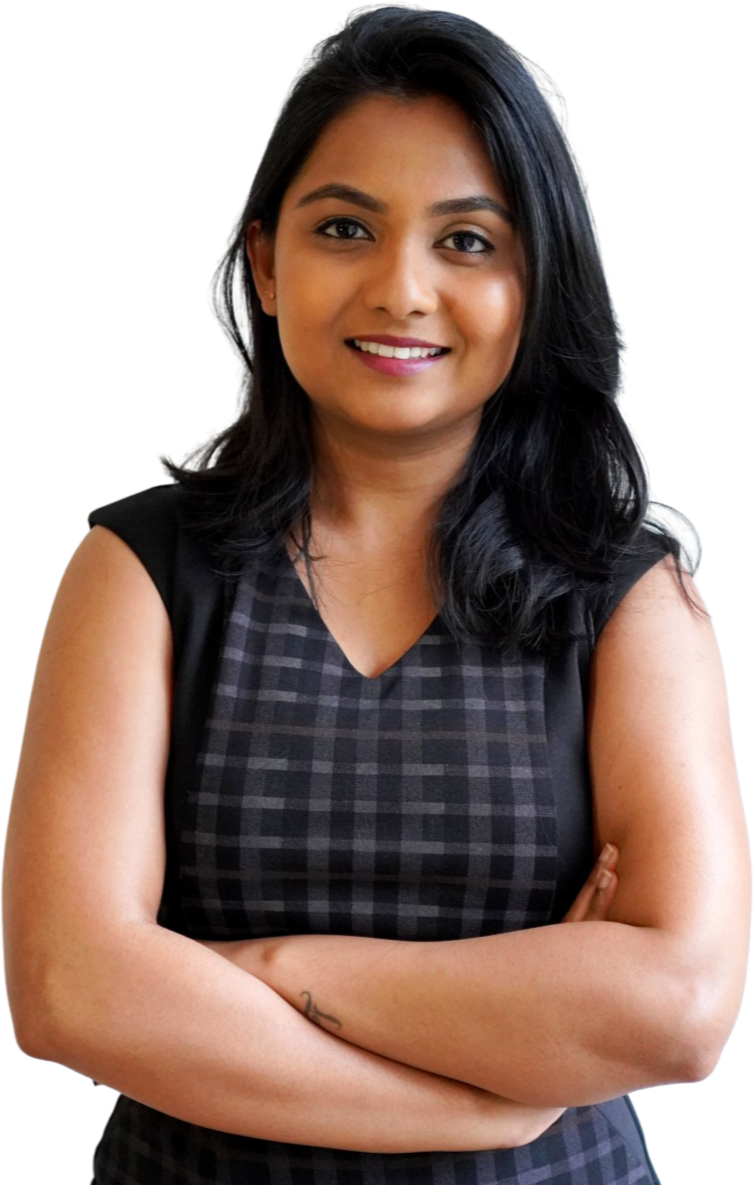
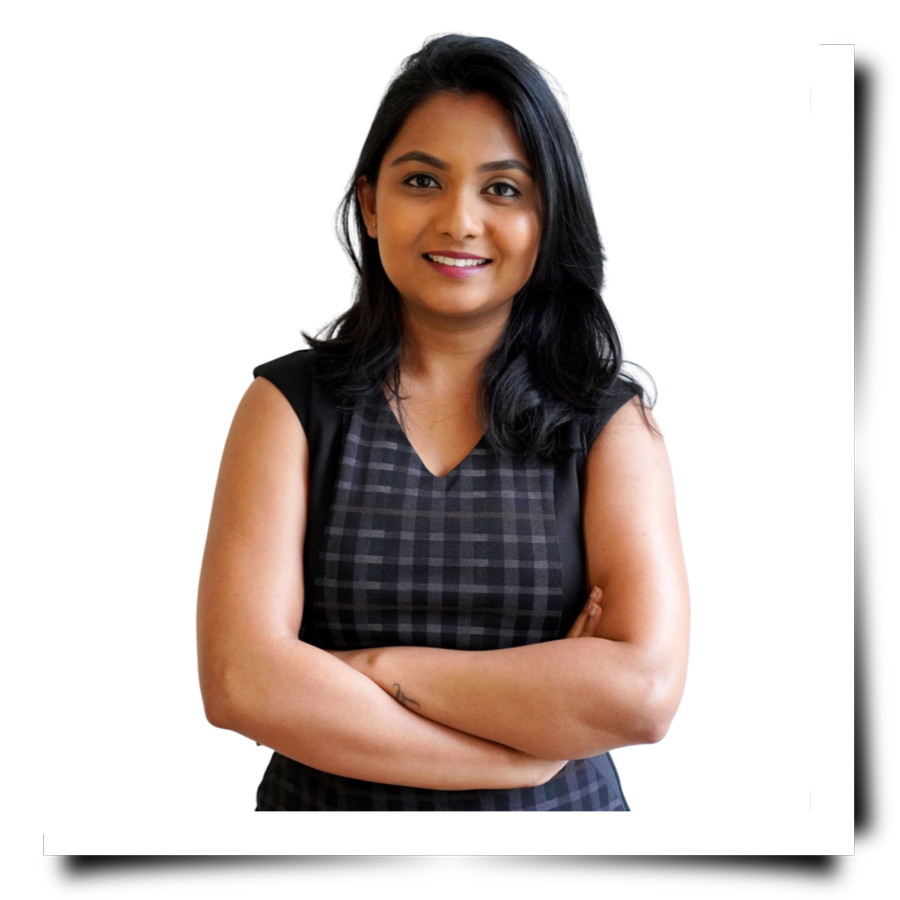
added mouse move parallax effect

diff --git a/js/main.js b/js/main.js
@@ -104,6 +104,35 @@
         $(this).addClass('filter-active');
         portfolioIsotope.isotope({filter: $(this).data('filter')});
     });
+
+    // Parallax Mouse Move    
+    var rect = $('#parallax_mouse_move')[0].getBoundingClientRect();
+    var mouse = {x: 0, y: 0, moved: false};
+
+    $("#parallax_mouse_move").mousemove(function(e) {
+    mouse.moved = true;
+    mouse.x = e.clientX - rect.left;
+    mouse.y = e.clientY - rect.top;
+    });
+    
+    // Ticker event will be called on every frame
+    TweenLite.ticker.addEventListener('tick', function(){
+    if (mouse.moved){    
+        parallaxIt("img", -20);
+    }
+    mouse.moved = false;
+    });
+
+    function parallaxIt(target, movement) {
+    TweenMax.to(target, 0.5, {
+        x: (mouse.x - rect.width / 2) / rect.width * movement,
+        y: (mouse.y - rect.height / 2) / rect.height * movement
+    });
+    }
+
+    $(window).on('resize scroll', function(){
+    rect = $('#parallax_mouse_move')[0].getBoundingClientRect();
+    })
     
 })(jQuery);
 

diff --git a/index.html b/index.html
@@ -71,8 +71,8 @@
                         </div>
                     </div>
                     <div class="col-sm-12 col-md-6 d-none d-md-block">
-                            <div class="hero-image">
-                                <img src="img/sapna_upadhya.png" alt="Hero Image">
+                        <div id="parallax_mouse_move">
+                            <img src="img/sapna_upadhya.png" alt="Hero Image"/>
                         </div>
                     </div>
                 </div>
@@ -799,6 +799,7 @@
         <!-- JavaScript Libraries -->
         <script src="https://code.jquery.com/jquery-3.4.1.min.js"></script>
         <script src="https://stackpath.bootstrapcdn.com/bootstrap/4.4.1/js/bootstrap.bundle.min.js"></script>
+        <script src="https://cdnjs.cloudflare.com/ajax/libs/gsap/1.19.1/TweenMax.min.js"></script>
         <script src="lib/easing/easing.min.js"></script>
         <script src="lib/wow/wow.min.js"></script>
         <script src="lib/waypoints/waypoints.min.js"></script>

diff --git a/css/style.css b/css/style.css
@@ -60,6 +60,16 @@ a:focus {
     border-color: #6d6875;
 }
 
+#parallax_mouse_move{
+  
+  position: relative;
+  height: 100vh;
+  width: 100%;
+  display: flex;
+  justify-content: center;
+  align-items: center;
+}
+
 #loader {
     position: fixed;
     top: 0;
